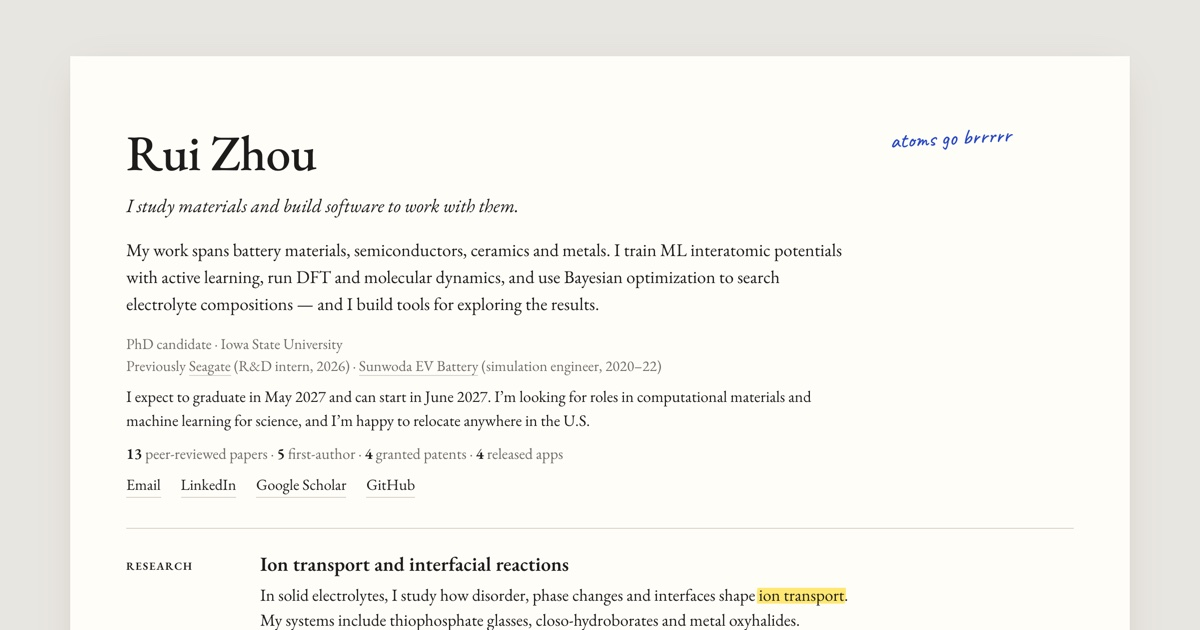
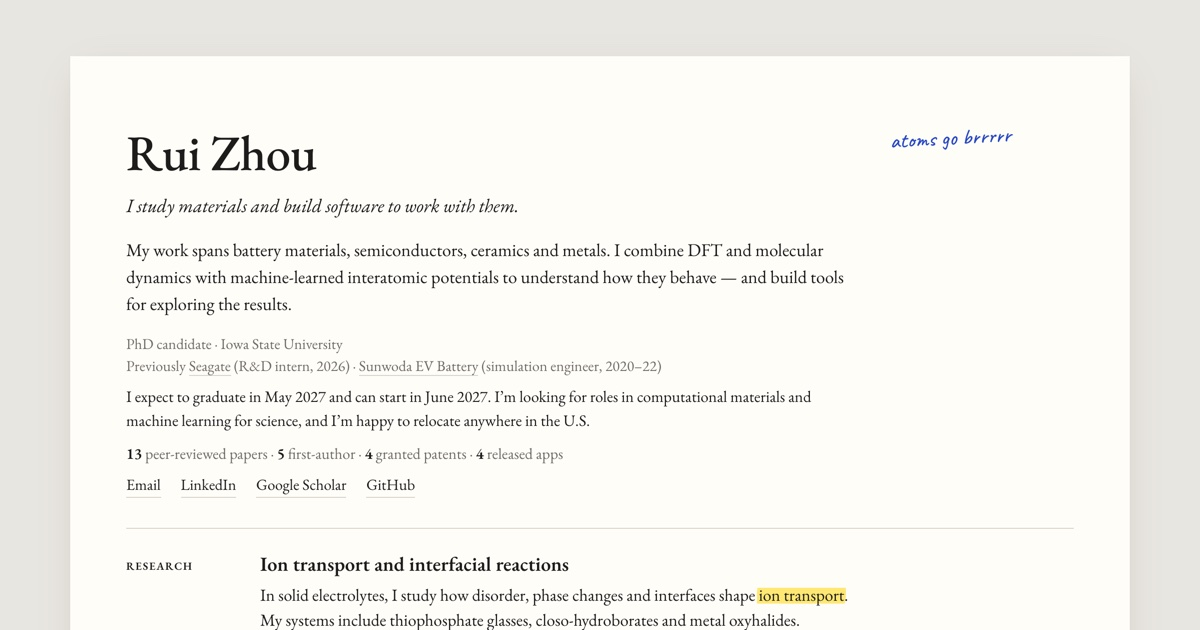
Simplify the portfolio introduction
Name the core methods (DFT, molecular dynamics, machine-learned
interatomic potentials) without listing individual projects, and refresh
the portfolio link preview to match.

Changed region(s): [[0.0925, 0.3921, 0.7092, 0.5127]]

diff --git a/src/redesign/margins/MarginsSite.jsx b/src/redesign/margins/MarginsSite.jsx
@@ -125,7 +125,7 @@ export default function MarginsSite({focusId, onSwitch, initialPublications}) {
         <Row note={<Note tilt={-3} delay={300}>atoms go brrrrr</Note>}>
           <h1>Rui Zhou</h1>
           <p className="mg-role">I study materials and build software to work with them.</p>
-          <p className="mg-intro">My work spans battery materials, semiconductors, ceramics and metals. I train ML interatomic potentials with active learning, run DFT and molecular dynamics, and use Bayesian optimization to search electrolyte compositions — and I build tools for exploring the results.</p>
+          <p className="mg-intro">My work spans battery materials, semiconductors, ceramics and metals. I combine DFT and molecular dynamics with machine-learned interatomic potentials to understand how they behave — and build tools for exploring the results.</p>
           <p className="mg-current">PhD candidate · Iowa State University<br/><span>Previously <a href="#seagate">Seagate</a> (R&amp;D intern, {experienceById.seagate.start})</span> · <span><a href="#sunwoda">{experienceById.sunwoda.org}</a> (simulation engineer, {experienceById.sunwoda.start}–{String(experienceById.sunwoda.end).slice(2)})</span></p>
           <p className="mg-availability">{person.availability}</p>
           <p className="mg-proof"><strong>{papers.length||counts.papers}</strong> peer-reviewed papers · <strong>{selectedPapers.length||counts.firstAuthor}</strong> first-author · <strong>{patents.length}</strong> granted patents · <strong>{counts.apps}</strong> released apps</p>
